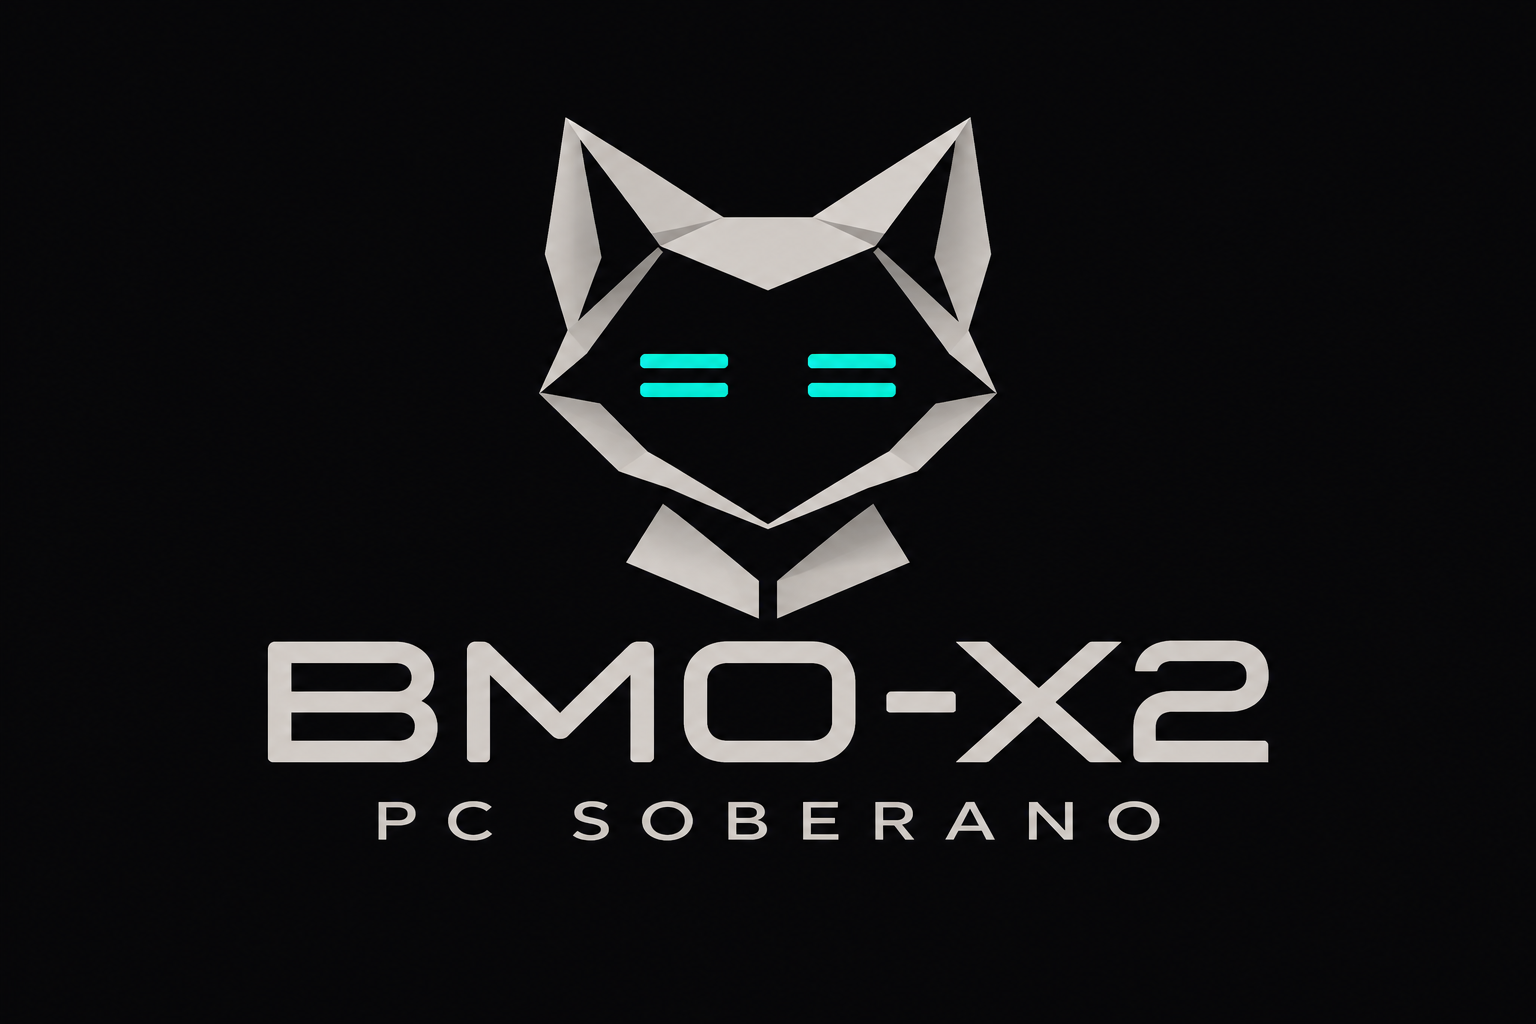
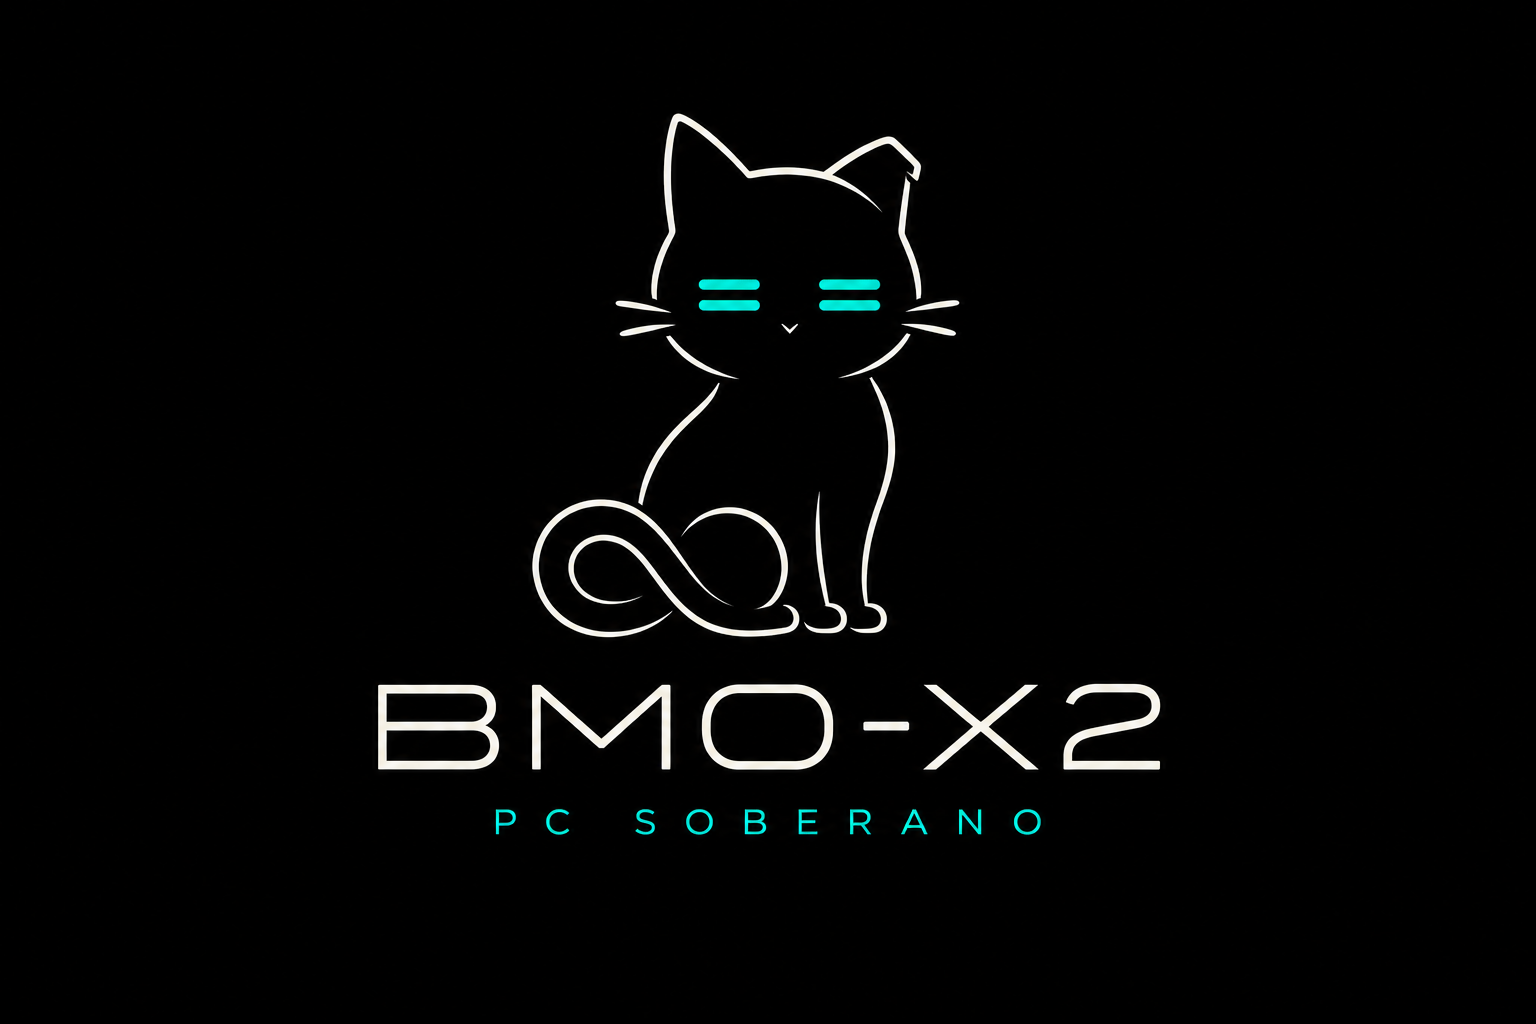
Refine the BMO-X2 mascot around the original silhouette

Changed region(s): [[0.1562, 0.0938, 0.8438, 0.75], [0.2188, 0.7812, 0.7812, 0.8438]]

diff --git a/README.md b/README.md
@@ -1,6 +1,6 @@
 # BMO-X2
 
-![Gato geometrico de BMO-X2 con ojos turquesa y la leyenda PC SOBERANO](docs/branding/bmo-x2-pc-soberano.png)
+![Gato sentado de BMO-X2 con ojos turquesa, cola en bucle y la leyenda PC SOBERANO](docs/branding/bmo-x2-pc-soberano.png)
 
 **Un sistema x86-64 que permite seguir el camino desde el codigo fuente
 hasta los bytes que ejecuta la CPU.** CASM construye los perfiles probados
@@ -53,7 +53,8 @@ permiso y el informe identifica el ejecutable y su origen.
 
 BMO-X2 es hijo de BMO-X. Reune tres lineas de trabajo del mismo autor
 y elige de cada una las piezas que sirven a su propio diseno.
-El nuevo gato conserva los ojos turquesa de BMO-X como rasgo de familia.
+El gato de BMO-X2 conserva la silueta sentada, la cola en bucle y los
+ojos turquesa del gato original de BMO-X.
 
 | Proyecto de origen | Que aporta a BMO-X2 |
 |---|---|
